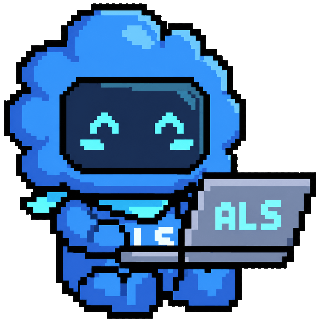
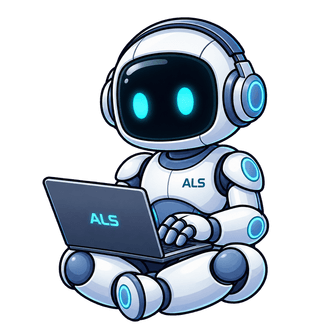
feat: reemplazar mascota ALS con robot ilustrado

diff --git a/index.html b/index.html
@@ -88,7 +88,7 @@
 
           </div>
           <div class='hero-signature'>
-            <img class='als-mascot mascot-welcome' src='assets/brand/mascot-welcome.png' width='224' height='295' alt='' decoding='async' fetchpriority='low'>
+            <img class='als-mascot mascot-welcome' src='assets/brand/mascot-welcome.png' width='320' height='480' alt='' decoding='async' fetchpriority='low'>
             <div class='hero-meta'>
               <span>Andrés Santiago</span>
               <span>Desarrollo independiente · Trabajo remoto</span>
@@ -298,7 +298,7 @@
                 <svg viewBox="0 0 24 24" fill="none" stroke="currentColor" stroke-width="1.6" stroke-linecap="round" stroke-linejoin="round" aria-hidden="true" focusable="false"><path d="M5 12h14M12 5l7 7-7 7"/></svg>
               </a>
             </div>
-            <img class="als-mascot mascot-contact" src="assets/brand/mascot-laptop.png" width="320" height="322" alt="" loading="lazy" decoding="async" fetchpriority="low">
+            <img class="als-mascot mascot-contact" src="assets/brand/mascot-laptop.png" width="320" height="332" alt="" loading="lazy" decoding="async" fetchpriority="low">
           </div>
           <div class="contact-playground" role="region" aria-labelledby="contact-question">
             <div class="playground-top"><span class="eyebrow">Por WhatsApp</span></div>

diff --git a/styles/main.css b/styles/main.css
@@ -105,7 +105,7 @@ nav .wrap { width:auto; padding:9px 10px 9px 14px; display:flex; align-items:cen
 .hero-copy { margin-top:28px; max-width:530px; color:var(--muted); font-size:clamp(17px,2vw,21px); }
 .hero-actions { display:flex; flex-wrap:wrap; gap:12px; margin-top:38px; }
 .hero-signature { display:flex; align-items:center; gap:18px; margin-top:32px; }
-.als-mascot { display:block; flex:none; max-width:100%; height:auto; object-fit:contain; image-rendering:pixelated; }
+.als-mascot { display:block; flex:none; max-width:100%; height:auto; object-fit:contain; image-rendering:auto; }
 .mascot-welcome { width:72px; }
 .hero-meta { display:grid; gap:4px; min-width:0; color:var(--muted); font-size:13px; }
 .hero-meta span:first-child { color:var(--paper); font-weight:600; }

diff --git a/tasks.md b/tasks.md
@@ -480,3 +480,9 @@ Orden de ejecución: OPT-01 → OPT-02 → OPT-03 → OPT-04 → OPT-05 → OPT-
 - Se corrigió la barrera CSP en rechazo inicial para conservar el fetch del mapa. La prueba integrada corrigió su propio uso del control de autoplay oculto con movimiento reducido; se verificó navegación manual, sin cambiar el carrusel.
 - Pages construyó `migration/cloudflare` en `98dd612`, deployment `a1a10f4b-212b-44a9-82ad-bc0382d13f2f`, proyecto `alsdevstudio` y `NODE_VERSION=22`. Candidato https://alsdevstudio.pages.dev/ verificado: QA pública 4/4 PASS, contenido coincidente normalizando CRLF/LF e imagen social idéntica, headers/noindex, diálogo sin inserción automática y recorrido sin conexiones externas ni cookies. Capturas a 320/1440 px inspeccionadas. TTL anteriores 600 segundos, siete registros DNS respaldados en el plan; la recepción real de Analytics se reservó para el dominio canónico tras el corte.
 - Producción https://www.alsdevstudio.com/ verificada en `5cd5576`, deployment `79e1c44a-c219-4023-a578-662718b757d6`; panel Active / SSL enabled. QA real 4/4 PASS y visita sintética Analytics PASS: SDK solo tras aceptar, POST2xx, retirada y recarga sin SDK ni solicitudes nuevas, cero cookies. HTTPS válido, producción indexable, apex301HTTP/HTTPS con ruta/query preservadas, DNS CNAME confirmado en autoritativo/Cloudflare/Google; NS/MX/SPF/TXT conservados. Respaldo Vercel `c6a6436` Ready y script anterior HTTP200 comprobado con DNS fijado a216.198.79.1 y TLS validado. Evidencia, límites y reversión en `docs/MIGRACION-CLOUDFLARE.md`; captura final `test-results/cloudflare-produccion.png`. Sin gasto ni servicios pagados nuevos.
+
+## MASCOT-02 · Nueva mascota ilustrada · 2026-10-13
+- Estado: aprobada en local. Reemplazados los dos PNG de la mascota con el robot blanco/gris de la nueva referencia del titular, con ojos turquesa, visor oscuro y transparencia real.
+- Preparar bienvenida y pose con portátil del mismo personaje; adaptar renderizado suave y dimensiones reservadas, manteniendo ubicaciones y tamaños de la web.
+- Verificar transparencia, peso, build Pages y recorrido de las dos ubicaciones en ocho anchos, sin solapamientos ni desbordamiento; inspeccionar capturas de portada y contacto en 1440/390 px. Preparar reversión con el commit anterior y presentar el resultado antes del push de producción.
+- Evidencia Cronos: `node test-results/mascot-qa.mjs` PASS en 320, 390, 680, 681, 900, 901, 1024 y 1440 px; proporciones reservadas correctas, cero errores, sin solapamientos/desbordamiento y lectura sin JavaScript a 320 px. Cuatro capturas de portada/contacto a 1440/390 px inspeccionadas. Build Pages PASS (182 archivos, aproximadamente 4,7 MB); transparencia alfa real y esquinas transparentes comprobadas en ambos PNG. Tamaño conjunto 82.490 bytes, renderizado suave y sin dependencias/conexiones nuevas. `git diff --check` PASS. Preparación del preview y corte de producción por confirmar; reversión en `docs/MASCOT-02-REVISION.md`.

diff --git a/docs/MASCOT-02-REVISION.md b/docs/MASCOT-02-REVISION.md
@@ -1,0 +1,46 @@
+# Nueva mascota ALS ilustrada
+
+Fecha: 2026-10-13. Estado: aprobada en local; producción pendiente.
+
+Solicitud: sustituir la mascota pixel art usando la lámina de tres robots que
+proporcionó el titular. Se generaron dos poses del mismo robot blanco/gris, con
+visor oscuro y ojos turquesa: bienvenida de pie y sentado con portátil.
+
+## Integración
+
+- `assets/brand/mascot-welcome.png`: 320×480, 50.551 bytes.
+- `assets/brand/mascot-laptop.png`: 320×332, 31.939 bytes.
+- Herramienta integrada `imagegen`, sin API/CLI adicional. Procedencia y prompts
+  completos en `assets/brand/mascot-sources.json`.
+- Reducción suave y PNG con paleta de 256 colores mediante Sharp ya instalado;
+  se preservó el alfa generado. Sin extracción manual del fondo. Ambos archivos
+  contienen píxeles transparentes reales y sus cuatro esquinas tienen alfa cero.
+- Dos cambios de proporción en HTML y `image-rendering: auto` para ilustración
+  suave. Tamaños CSS existentes: bienvenida 72/56 px y contacto 128/88 px.
+  Las imágenes siguen siendo decorativas, sin foco ni animación nueva.
+- Nombres conservados, ya incluidos en el build de Pages. Sin cambios de CSP,
+  scripts, consentimiento, correo, DNS ni servicios.
+
+## Verificación
+
+`node test-results/mascot-qa.mjs`: PASS en ocho anchos (320, 390, 680, 681, 900,
+901, 1024 y 1440 px). Dimensiones de HTML coinciden con las imágenes; proporción
+correcta, sin solapamientos/desbordamiento ni errores HTTP/JavaScript. Ambas
+imágenes funcionan sin JavaScript a 320 px. El ensayo descarta primero el aviso
+opcional de analítica para que las capturas permitan revisar la mascota.
+
+Capturas de portada y contacto a 1440/390 px inspeccionadas: fondo transparente
+correcto sobre azul y blanco, silueta legible, contenido y controles visibles.
+Build Pages PASS: 182 archivos, aproximadamente 4,7 MB; ambos PNG en `dist`.
+`git diff --check` PASS. Revisión de seguridad del cambio sin hallazgos críticos:
+solo assets locales, atributos de imagen, CSS y documentación; sin endpoints,
+datos sensibles o dependencias nuevas.
+
+## Reversión
+
+Versión anterior: `a68c7d5d6d1d8f59b7c4594a729357ffe880375f`.
+Recuperar ambos PNG y su manifest de esa versión mediante un nuevo
+commit. Restaurar solamente las dimensiones anteriores de las dos imágenes y
+`image-rendering: pixelated`; conservar cambios posteriores ajenos al alcance.
+Ejecutar de nuevo QA/build antes del push autorizado de reversión. No reescribir
+historia ni alterar servicios o datos.

diff --git a/STACK.md b/STACK.md
@@ -144,3 +144,7 @@ Nivel 1 — landing/portafolio. El workflow completo de Superpowers y las prueba
 - Web Analytics manual, con `spa: false`; inserción automática desactivada. Elección propia y específica de Cloudflare por 180 días. No reutilizar aceptación de Vercel. Bloquear nuevas conexiones de medición mediante una CSP adicional antes de recargar al revocar; no cancelar retroactivamente solicitudes iniciadas.
 - Costo previsto: USD 0/mes en Pages Free y Web Analytics, dentro de los límites vigentes (500 builds/mes, 20.000 archivos, 25 MiB por archivo). No se contrata plan ni se habilitan Functions/R2. Dominio y correo conservan sus costos existentes.
 - Motivo de Pages frente a Workers Static Assets: integración GitHub ya disponible y posibilidad de usar `www` con DNS externo; Workers es la recomendación general para proyectos nuevos, pero requeriría trasladar la zona DNS para Custom Domains. Decisión y reversión en `docs/MIGRACION-CLOUDFLARE.md`.
+
+### Nueva mascota ilustrada · 2026-10-13
+- Dos PNG locales transparentes del mismo robot, generados mediante `imagegen` integrado a partir de la referencia del titular. Mantener los nombres `mascot-welcome.png` y `mascot-laptop.png`, ya permitidos por el build de Pages.
+- Renderizado suave (`image-rendering: auto`) para la nueva ilustración. Reservar la proporción real en HTML y conservar los tamaños y posiciones existentes de portada/contacto; sin animación, dependencias de cliente ni conexiones adicionales.

diff --git a/BRIEF.md b/BRIEF.md
@@ -82,3 +82,7 @@ El usuario proporcionó `https://github.com/andresleosanayudame`, pero esa URL d
 - El titular solicita migrar el portafolio comercial desde Vercel Hobby a Cloudflare. Conservar dominio, diseño, proyectos, contacto, correo en Porkbun y despliegues desde GitHub.
 - Preparar Cloudflare Pages con una salida pública dedicada, cabeceras de seguridad y páginas legales actualizadas. Mantener estadísticas opcionales mediante instalación manual de Cloudflare Web Analytics y solicitar una elección nueva para este proveedor.
 - Validar una versión de prueba antes del cambio del dominio. Sin contratación de servicios de pago ni traslado del registro del dominio. La aprobación del corte de producción se solicita con la versión revisable y el plan de reversión preparados.
+
+## Nueva mascota ilustrada · 2026-10-13
+- El titular solicita reemplazar la mascota pixel art usando su nueva lámina de tres robots como referencia. Robot blanco y gris con visor oscuro, ojos turquesa y marca ALS; ilustración suave, fondo transparente y personalidad cercana.
+- Mantener las dos ubicaciones existentes: bienvenida en portada y robot con portátil en contacto. Conservar el protagonismo del contenido y comprobar tamaños, proporciones y lectura en móvil antes de publicar.
